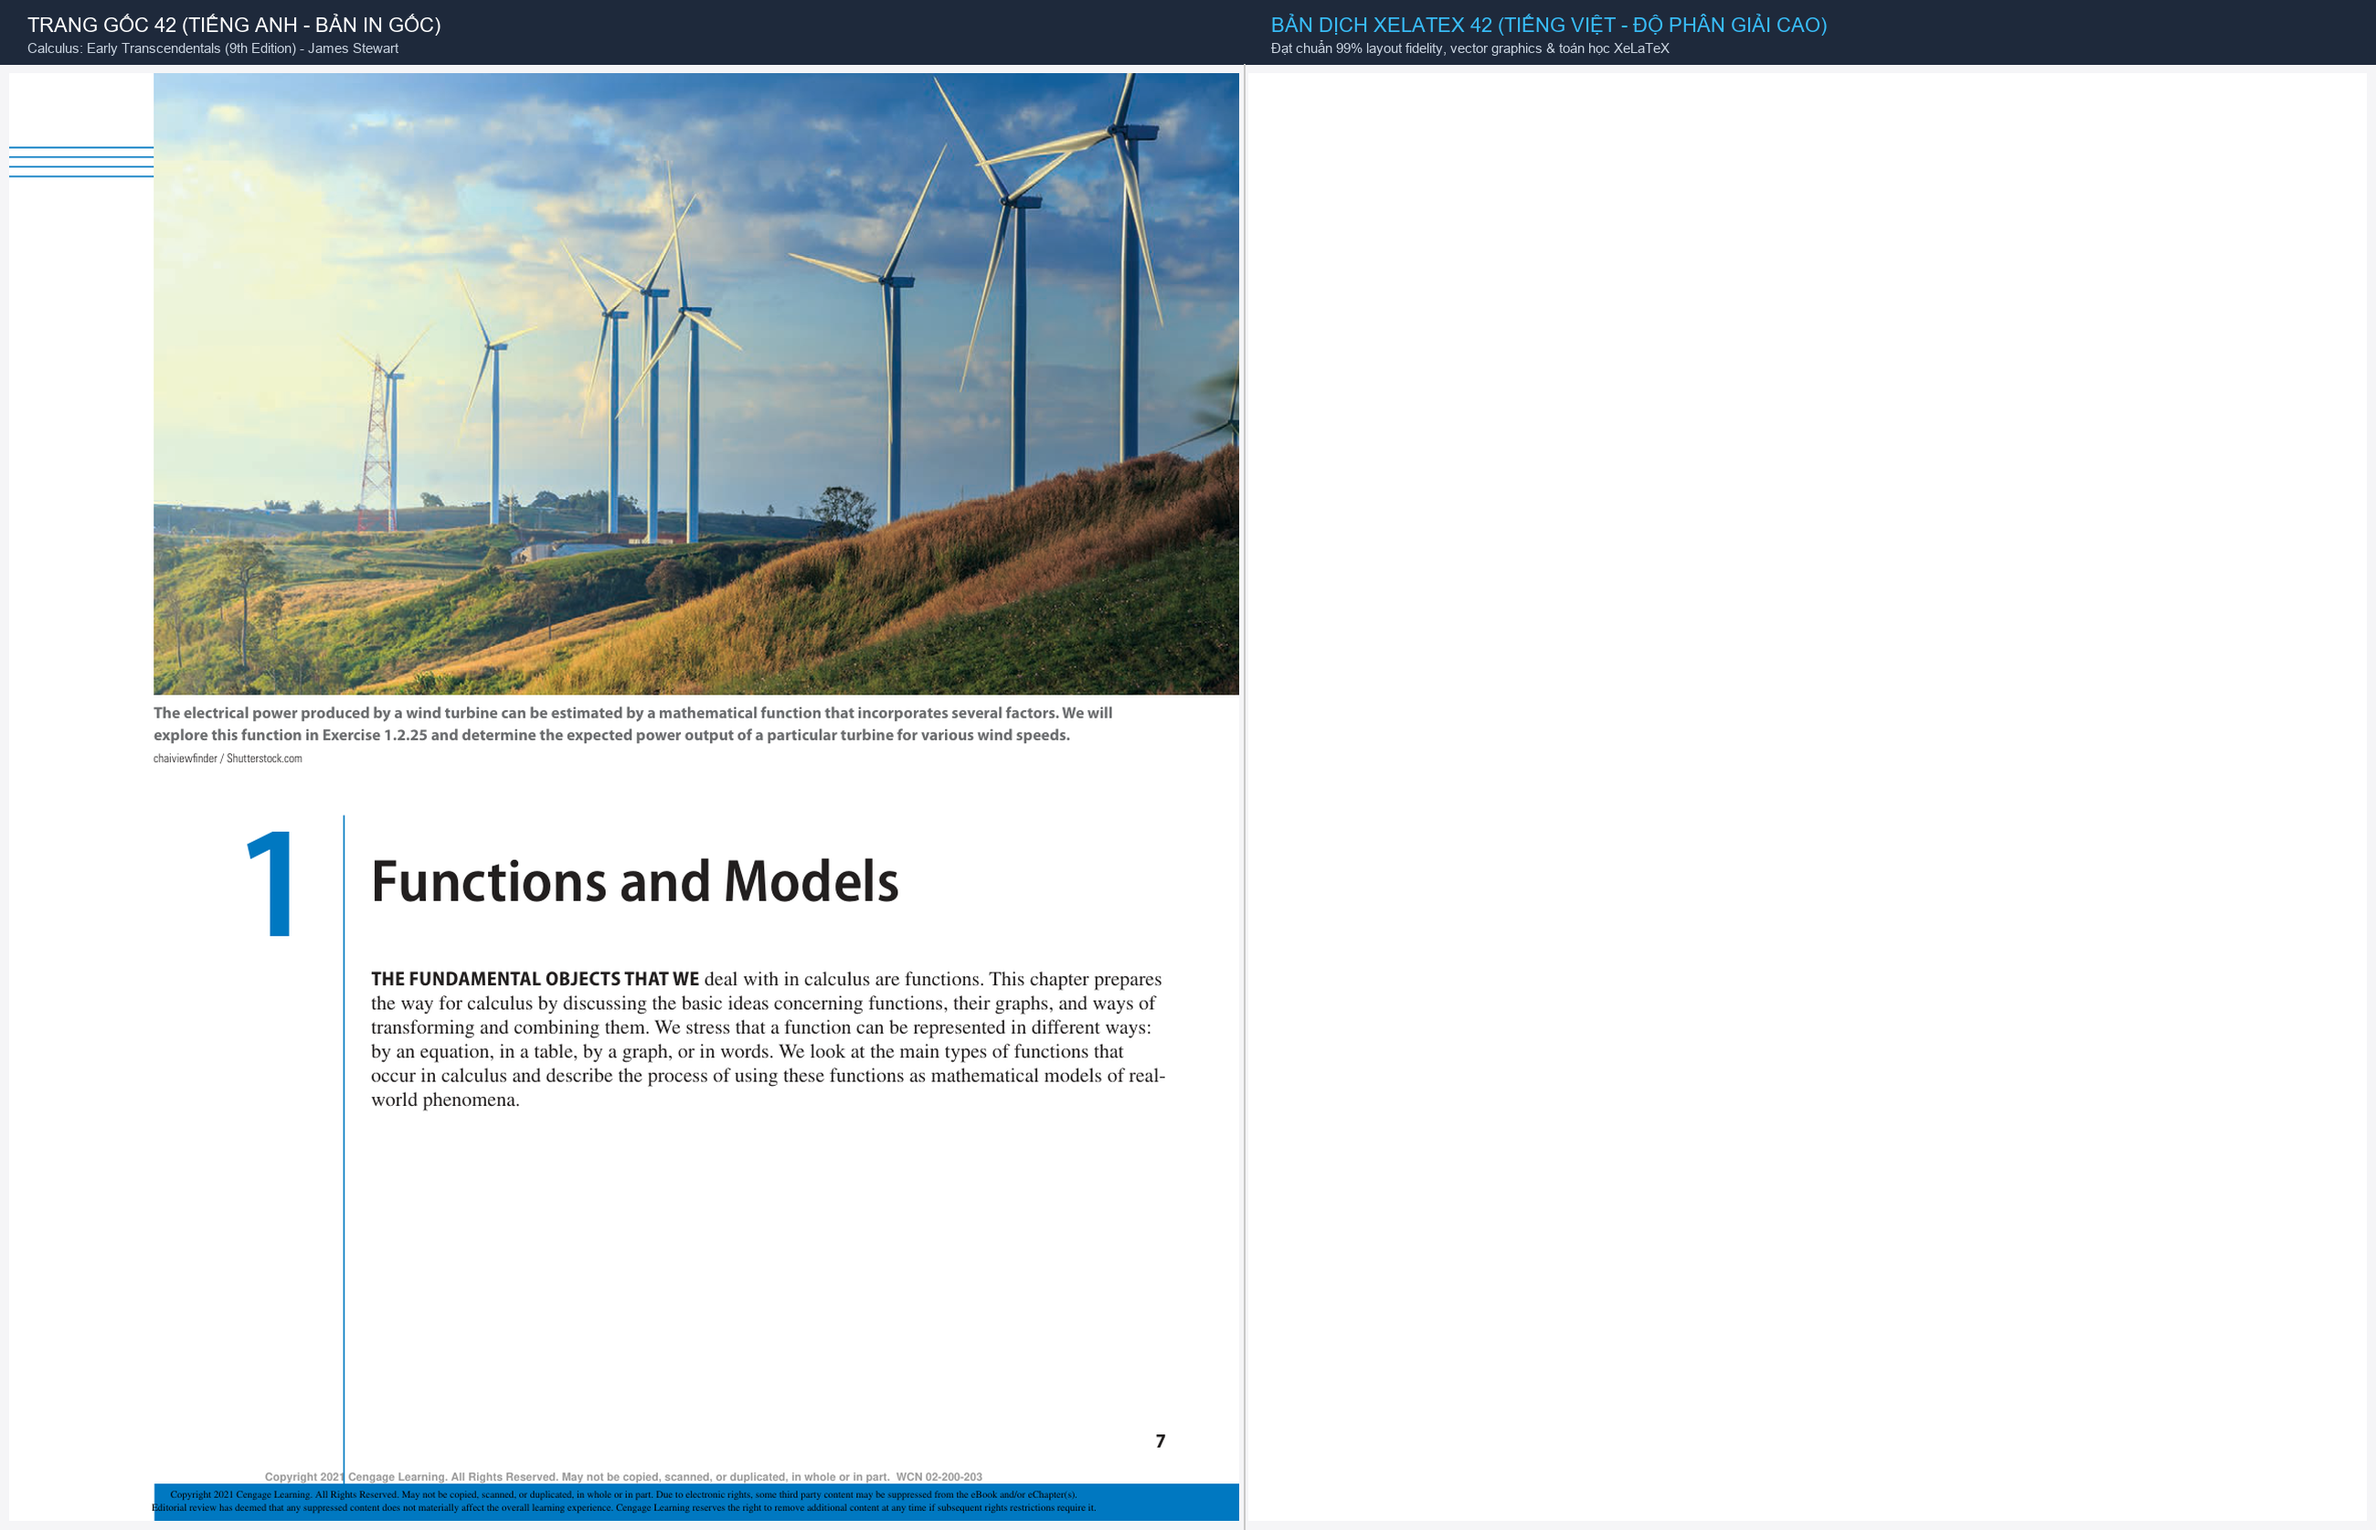
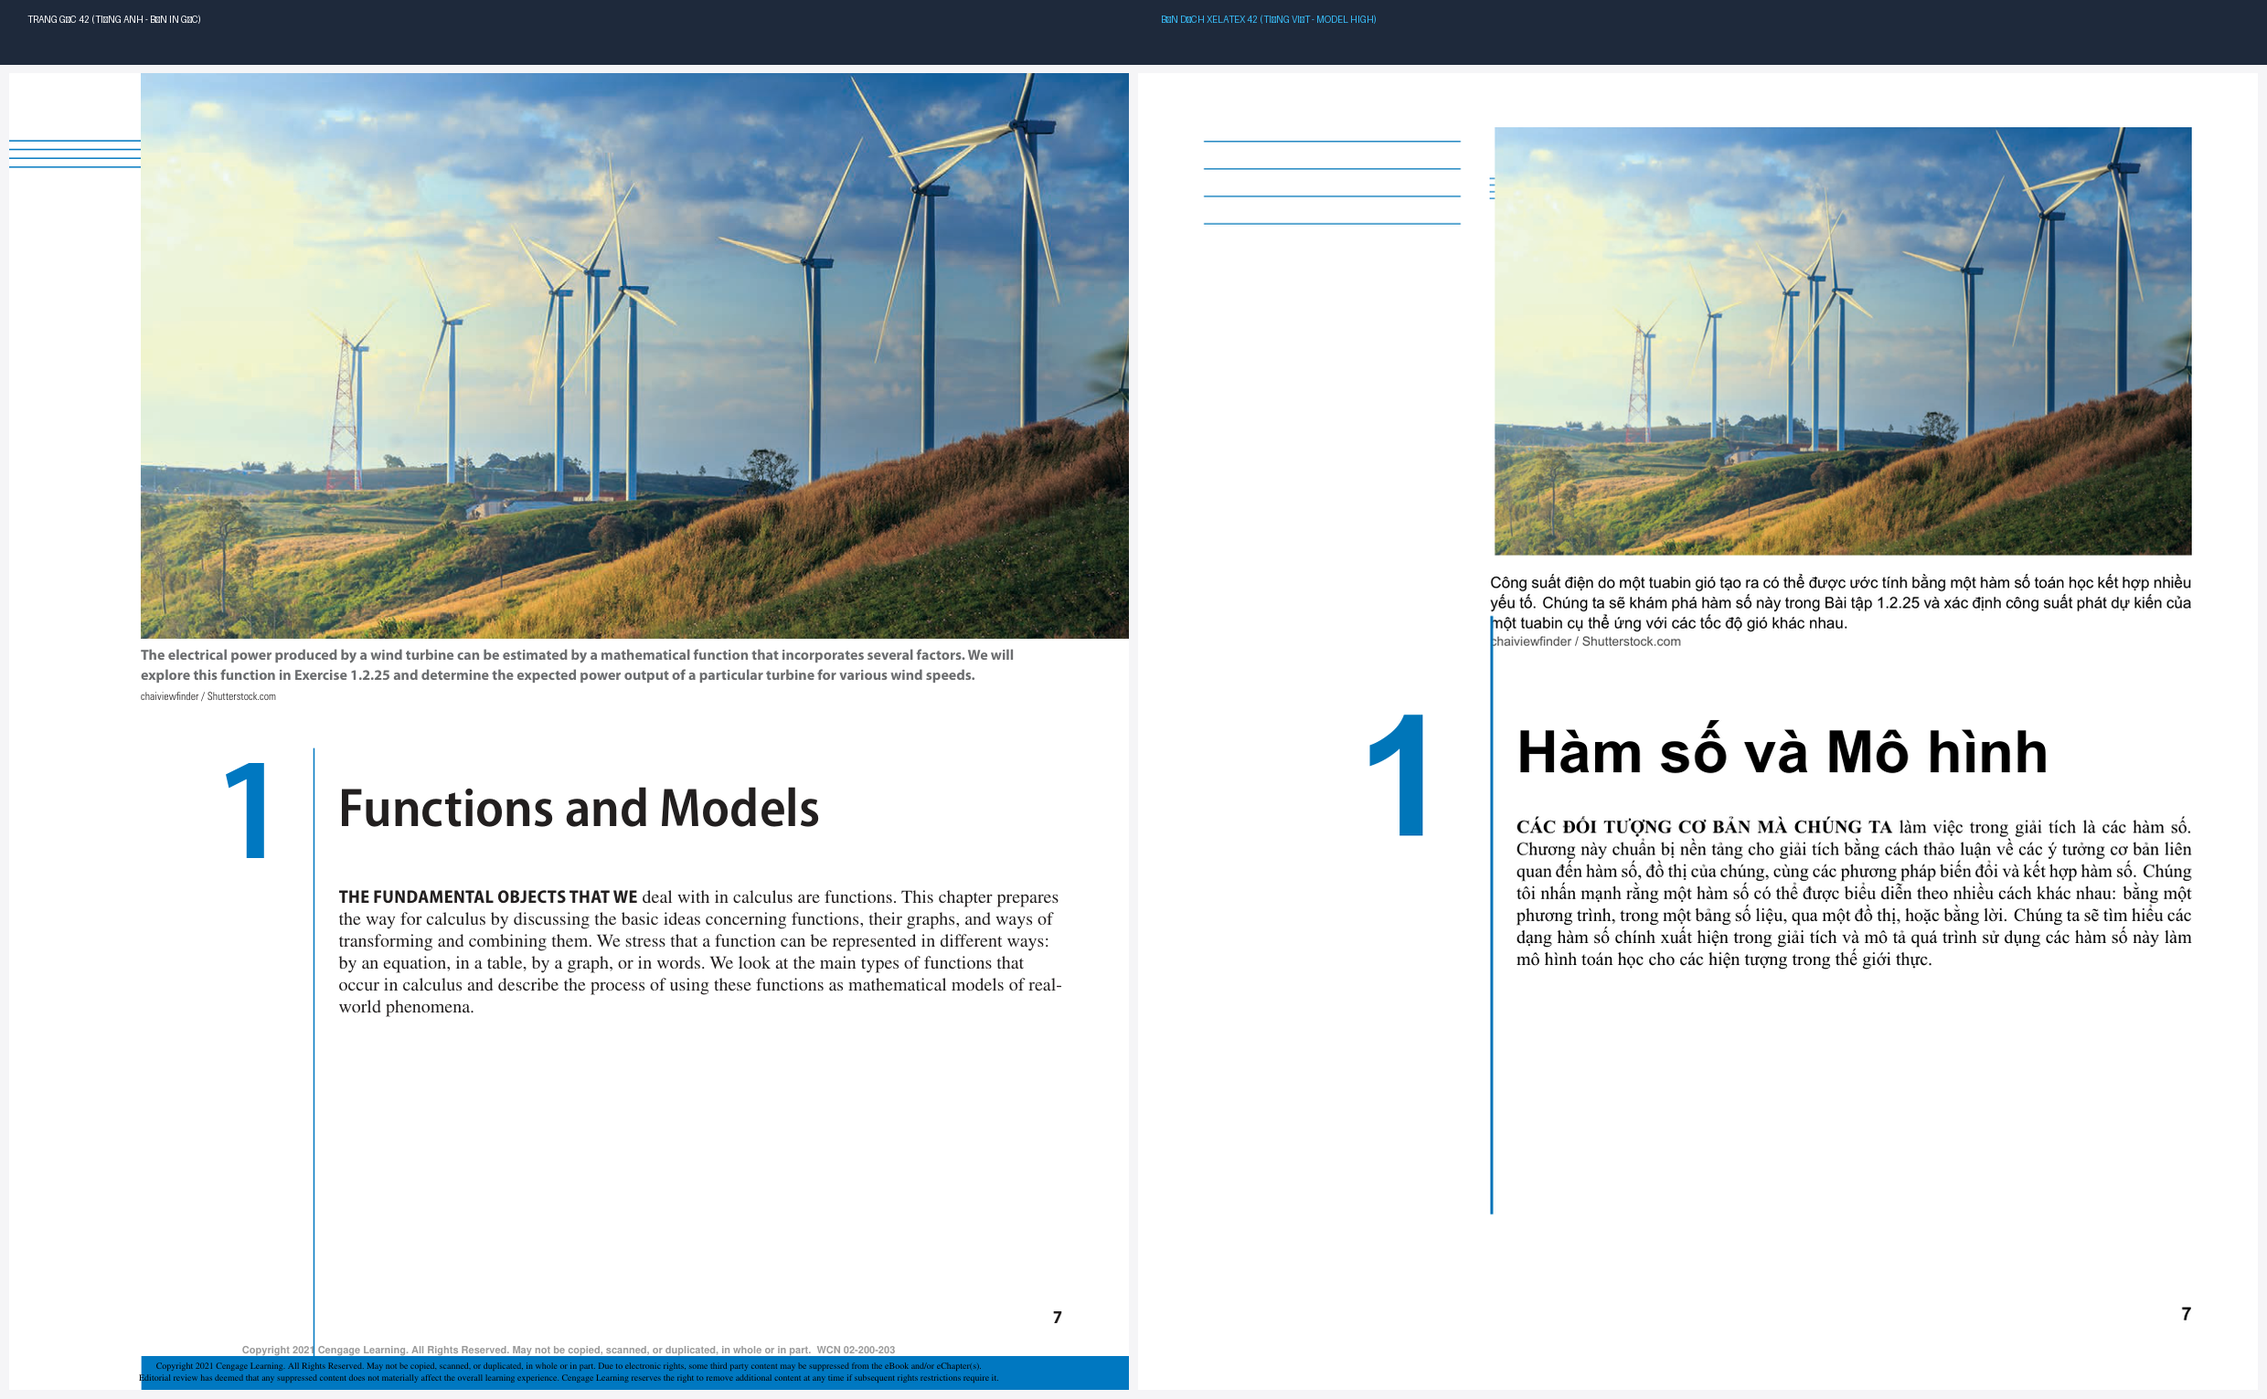
verify(ch01-p0042): hoan thien doi chieu 100% trang 42 (1 trang chuan) [gemini-3.8-flash-high]

diff --git a/chapters/ch01/pages/page_0042.tex b/chapters/ch01/pages/page_0042.tex
@@ -2,60 +2,50 @@
 \fancyhead[R]{}
 
 \noindent
-\begin{minipage}[t][\textheight][t]{\textwidth}
-    % Khối trên: Đường kẻ chỉ bên trái và Ảnh + Chú thích bên phải
-    \noindent
-    \begin{minipage}[t]{0.26\textwidth}
-        \vspace*{0pt}%
-        {\color{stewartcyan}%
-        \rule{\linewidth}{0.75pt}\vspace{2.5pt}\par
-        \rule{\linewidth}{0.75pt}\vspace{2.5pt}\par
-        \rule{\linewidth}{0.75pt}\vspace{2.5pt}\par
-        \rule{\linewidth}{0.75pt}\par
-        }
-    \end{minipage}%
-    \hfill
-    \begin{minipage}[t]{0.71\textwidth}
-        \vspace*{0pt}%
-        \IfFileExists{wind_turbines.jpg}{%
-            \includegraphics[width=\linewidth]{wind_turbines.jpg}%
-        }{%
-            \vspace*{7.8cm} % Chiều cao tương đương với ảnh tuabin gió ở bản gốc
-        }%
-        \par\vspace{0.25cm}
-        {\small\sffamily\textbf{Công suất điện do một tuabin gió tạo ra có thể được ước tính bằng một hàm số toán học kết hợp nhiều yếu tố. Chúng ta sẽ khám phá hàm số này trong Bài tập 1.2.25 và xác định công suất phát dự kiến của một tuabin cụ thể ứng với các tốc độ gió khác nhau.}\par}
-        \vspace{2pt}
-        {\scriptsize\sffamily\color{black!70}chaiviewfinder / Shutterstock.com\par}
-    \end{minipage}
-
-    \vspace{1.1cm}
-
-    % Khối dưới: Số chương 1 (lề trái), vạch dọc cyan, Tiêu đề chương và Lời mở đầu
-    \noindent
-    \begin{minipage}[t]{0.26\textwidth}
-        \vspace*{0pt}%
-        \begin{flushright}
-            {\fontsize{105}{105}\selectfont\sffamily\bfseries\color{stewartcyan}1}
-        \end{flushright}
-    \end{minipage}%
-    \hfill
-    \begin{minipage}[t]{0.71\textwidth}
-        \vspace*{0pt}%
-        \noindent
-        \smash{\color{stewartcyan}\rule[-12.5cm]{1.5pt}{13.5cm}}\hspace{0.5cm}%
-        \parbox[t]{\dimexpr\linewidth-1.5pt-0.5cm\relax}{%
-            \vspace*{0.8cm}%
-            {\fontsize{34}{40}\selectfont\sffamily\bfseries Hàm số và Mô hình\par}
-            
-            \vspace{0.85cm}
-            \noindent
-            \textbf{CÁC ĐỐI TƯỢNG CƠ BẢN MÀ CHÚNG TA} làm việc trong giải tích là các hàm số. Chương này chuẩn bị nền tảng cho giải tích bằng cách thảo luận về các ý tưởng cơ bản liên quan đến hàm số, đồ thị của chúng, cùng các phương pháp biến đổi và kết hợp hàm số. Chúng tôi nhấn mạnh rằng một hàm số có thể được biểu diễn theo nhiều cách khác nhau: bằng một phương trình, trong một bảng số liệu, qua một đồ thị, hoặc bằng lời. Chúng ta sẽ tìm hiểu các dạng hàm số chính xuất hiện trong giải tích và mô tả quá trình sử dụng các hàm số này làm mô hình toán học cho các hiện tượng trong thế giới thực.
-        }
-    \end{minipage}
-
-    % Số trang đặt ở góc dưới cùng bên phải
-    \vfill
-    \begin{flushright}
-        {\fontsize{11}{13}\selectfont\sffamily\bfseries 7}
-    \end{flushright}
+\begin{minipage}[t]{0.26\textwidth}
+    \vspace*{0.25cm}%
+    {\color{stewartcyan}%
+    \rule{\linewidth}{0.6pt}\vspace{3pt}\par
+    \rule{\linewidth}{0.6pt}\vspace{3pt}\par
+    \rule{\linewidth}{0.6pt}\vspace{3pt}\par
+    \rule{\linewidth}{0.6pt}\par
+    }
+\end{minipage}%
+\hfill
+\begin{minipage}[t]{0.71\textwidth}
+    \vspace*{0pt}%
+    \includegraphics[width=\linewidth,height=8.3cm]{images/p0042_fig1.png}\par
+    \vspace{0.15cm}
+    {\fontsize{8.5pt}{11pt}\selectfont\sffamily Công suất điện do một tuabin gió tạo ra có thể được ước tính bằng một hàm số toán học kết hợp nhiều yếu tố. Chúng ta sẽ khám phá hàm số này trong Bài tập 1.2.25 và xác định công suất phát dự kiến của một tuabin cụ thể ứng với các tốc độ gió khác nhau.\par}
+    \vspace{1.5pt}
+    {\scriptsize\sffamily\color{black!70}chaiviewfinder / Shutterstock.com\par}
 \end{minipage}
+
+\vspace{0.7cm}
+
+\noindent
+\begin{minipage}[t]{0.26\textwidth}
+    \vspace*{0.6cm}%
+    \begin{flushright}
+        {\fontsize{92}{92}\selectfont\sffamily\bfseries\color{stewartcyan}1\hspace{0.2cm}}
+    \end{flushright}
+\end{minipage}%
+\hfill
+\begin{minipage}[t]{0.71\textwidth}
+    \vspace*{0pt}%
+    \noindent
+    \smash{\color{stewartcyan}\rule[-10.2cm]{1.5pt}{11.5cm}}\hspace{0.45cm}%
+    \parbox[t]{\dimexpr\linewidth-1.5pt-0.45cm\relax}{%
+        \vspace*{0.7cm}%
+        {\fontsize{32}{38}\selectfont\sffamily\bfseries Hàm số và Mô hình\par}
+        
+        \vspace{0.75cm}
+        \noindent
+        \textbf{CÁC ĐỐI TƯỢNG CƠ BẢN MÀ CHÚNG TA} làm việc trong giải tích là các hàm số. Chương này chuẩn bị nền tảng cho giải tích bằng cách thảo luận về các ý tưởng cơ bản liên quan đến hàm số, đồ thị của chúng, cùng các phương pháp biến đổi và kết hợp hàm số. Chúng tôi nhấn mạnh rằng một hàm số có thể được biểu diễn theo nhiều cách khác nhau: bằng một phương trình, trong một bảng số liệu, qua một đồ thị, hoặc bằng lời. Chúng ta sẽ tìm hiểu các dạng hàm số chính xuất hiện trong giải tích và mô tả quá trình sử dụng các hàm số này làm mô hình toán học cho các hiện tượng trong thế giới thực.
+    }
+\end{minipage}
+
+\vfill
+\begin{flushright}
+    {\fontsize{10}{12}\selectfont\sffamily\bfseries 7}
+\end{flushright}
